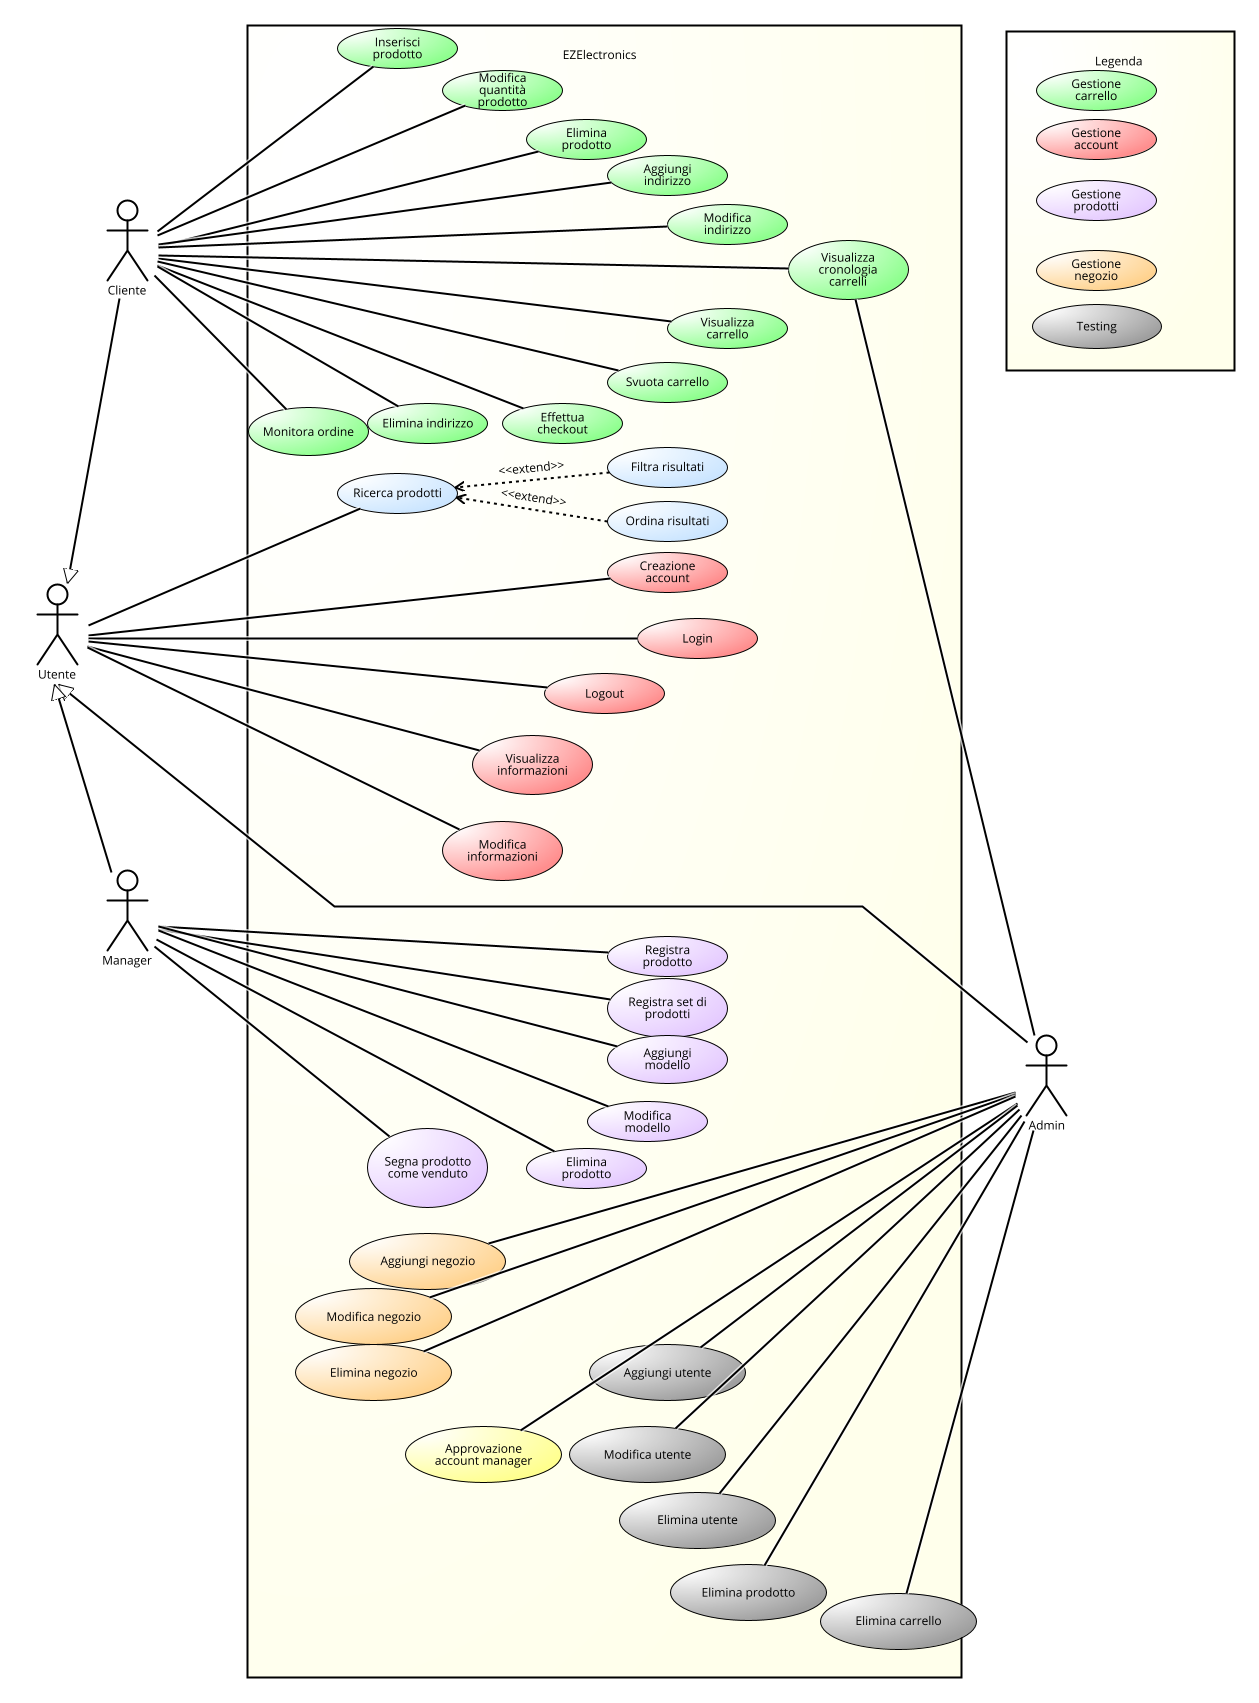
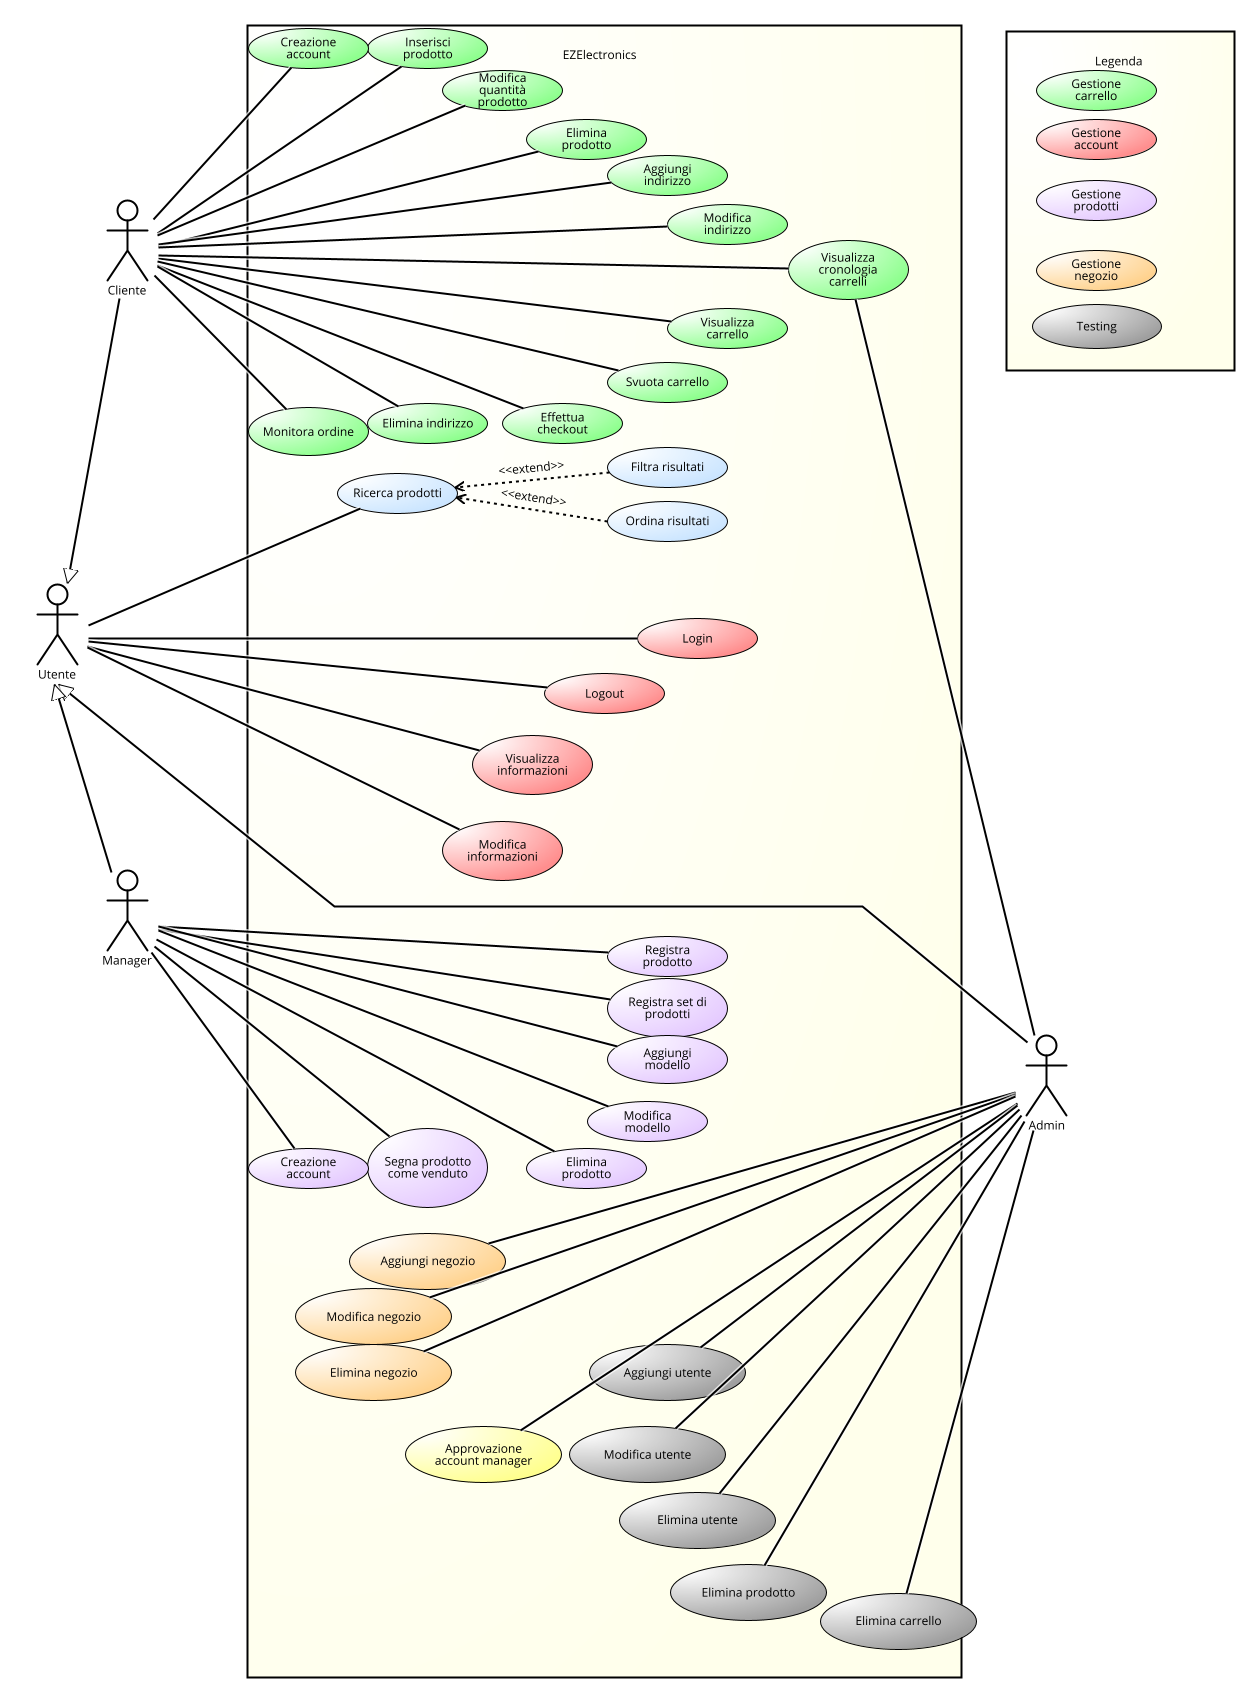
fix first 5 UC

diff --git a/RequirementsDocumentV2.md b/RequirementsDocumentV2.md
@@ -25,19 +25,23 @@ Version: V2 - description of EZElectronics
   - [Non Functional Requirements](#non-functional-requirements)
 - [Use case diagram and use cases](#use-case-diagram-and-use-cases)
     - [Use case diagram](#use-case-diagram)
-    - [Use cases](#use-cases)
-      - [UC1 - Creazione account](#uc1---creazione-account)
-        - [Scenario 1.1](#scenario-11)
-        - [Scenario 1.2](#scenario-12)
-      - [UC2 - Login](#uc2---login)
-        - [Scenario 2.1](#scenario-21)
-        - [Scenario 2.2](#scenario-22)
-      - [UC3 - Logout](#uc3---logout)
-        - [Scenario 3.1](#scenario-31)
-      - [UC4 - Visualizza informazioni profilo](#uc4---visualizza-informazioni-profilo)
-        - [Scenario 4.1](#scenario-41)
+  - [Use cases](#use-cases)
+    - [UC1 - Creazione account Cliente](#uc1---creazione-account-cliente)
+      - [Scenario 1.1](#scenario-11)
+      - [Scenario 1.2](#scenario-12)
+    - [UC2 - Creazione account Manager](#uc2---creazione-account-manager)
+      - [Scenario 2.1](#scenario-21)
+      - [Scenario 2.2](#scenario-22)
+      - [Scenario 2.3](#scenario-23)
+    - [UC3 - Login](#uc3---login)
+      - [Scenario 3.1](#scenario-31)
+      - [Scenario 3.2](#scenario-32)
+    - [UC4 - Logout](#uc4---logout)
+      - [Scenario 4.1](#scenario-41)
+    - [UC5 - Visualizza informazioni profilo](#uc5---visualizza-informazioni-profilo)
+      - [Scenario 5.1](#scenario-51)
       - [UC5 - Aggiunta di un prodotto al carrello](#uc5---aggiunta-di-un-prodotto-al-carrello)
-        - [Scenario 5.1](#scenario-51)
+        - [Scenario 5.1](#scenario-51-1)
         - [Scenario 5.2](#scenario-52)
       - [UC6 - Rimozione di un prodotto dal carrello](#uc6---rimozione-di-un-prodotto-dal-carrello)
         - [Scenario 6.1](#scenario-61)
@@ -255,11 +259,11 @@ Martina ha bisogno di acquistare un nuovo laptop per suo figlio, che inizia a fr
 
 ![Use case diagram](Immagini/useCaseDiagramv2.png)
 
-### Use cases
+## Use cases
 
-#### UC1 - Creazione account
+### UC1 - Creazione account Cliente
 
-| **Actors Involved** | **Cliente, Manager**      |
+| **Actors Involved** | **Cliente**      |
 | ------------------- | ------------------------- |
 | Precondition        | L’utente non è registrato |
 | Post condition      | L’utente è registrato     |
@@ -267,47 +271,104 @@ Martina ha bisogno di acquistare un nuovo laptop per suo figlio, che inizia a fr
 | Variants            | Nessuna                   |
 | Exceptions          | Scenario 1.2              |
 
-##### Scenario 1.1
+#### Scenario 1.1
 
 | **Scenario 1.1** | **Registrazione**                                                            |
 | ---------------- | ---------------------------------------------------------------------------- |
 | Precondition     | L’utente non è registrato                                                    |
 | Post condition   | L'utente è registrato                                                        |
 | Step#            | Description                                                                  |
-| 1                | L’utente chiede di registrarsi                                               |
-| 2                | Il sistema chiede nome, cognome, username, password e ruolo                  |
+| 1                | L’utente chiede di registrarsi come cliente                                           |
+| 2                | Il sistema chiede nome, cognome, username, email e password                   |
 | 3                | L’utente inserisce i dati richiesti                                          |
 | 4                | Il sistema acquisisce i dati inseriti                                        |
 | 5                | Il sistema controlla che l’username non sia associato a un account esistente |
 | 6                | Il sistema salva i dati e registra l’utente                                  |
 
-##### Scenario 1.2
+#### Scenario 1.2
 
 | **Scenario 1.2** | **Username già registrato**                                                    |
 | ---------------- | ------------------------------------------------------------------------------ |
 | Precondition     | L’utente non è registrato, l'username inserito è gia registrato nel sistema    |
 | Post condition   | L'utente non è registrato                                                      |
 | Step#            | Description                                                                    |
-| 1                | L’utente chiede di registrarsi                                                 |
-| 2                | Il sistema chiede nome, cognome, username, password e ruolo                    |
+| 1                | L’utente chiede di registrarsi come cliente                                                |
+| 2                | Il sistema chiede nome, cognome, username, email e password                 |
 | 3                | L’utente inserisce i dati richiesti                                            |
 | 4                | Il sistema acquisisce i dati inseriti                                          |
 | 5                | Il sistema controlla che l’username non sia associato a un account esistente   |
 | 6                | Il nome utente è già associato a un account e il sistema restituisce un errore |
 
-#### UC2 - Login
+### UC2 - Creazione account Manager
 
-| **Actors Involved** | **Cliente, Manager**                |
+| **Actors Involved** | **Manager**      |
+| ------------------- | ------------------------- |
+| Precondition        | L’utente non è registrato |
+| Post condition      | L’utente è registrato     |
+| Nominal Scenario    | Scenario 2.1            |
+| Variants            | Nessuna                   |
+| Exceptions          | Scenario 2.2, 2.3              |
+
+#### Scenario 2.1
+
+| **Scenario 2.1** | **Registrazione**                                                            |
+| ---------------- | ---------------------------------------------------------------------------- |
+| Precondition     | L’utente non è registrato                                                    |
+| Post condition   | L'utente è registrato                                                        |
+| Step#            | Description                                                                  |
+| 1                | L’utente chiede di registrarsi come manager                                          |
+| 2                | Il sistema chiede nome, cognome, username, email, password e negozio                   |
+| 3                | L’utente inserisce i dati richiesti                                          |
+| 4                | Il sistema acquisisce i dati inseriti                                        |
+| 5                | Il sistema controlla che l’username non sia associato a un account esistente |
+| 6                | Il sistema salva i dati e registra l’account manager                                |
+| 7                | Il sistema invia una richiesta di registrazione all'Admin per l'approvazione del manager |
+| 8                | L'Admin approva la richiesta di registrazione del manager |
+| 9                | Il sistema notifica il manager dell'avvenuta registrazione |
+
+#### Scenario 2.2
+
+| **Scenario 2.2** | **Username già registrato**                                                    |
+| ---------------- | ------------------------------------------------------------------------------ |
+| Precondition     | L’utente non è registrato, l'username inserito è gia registrato nel sistema    |
+| Post condition   | L'utente non è registrato                                                      |
+| Step#            | Description                                                                    |
+| 1                | L’utente chiede di registrarsi come manager                                                |
+| 2                | Il sistema chiede nome, cognome, username, email, password e negozio         |
+| 3                | L’utente inserisce i dati richiesti                                            |
+| 4                | Il sistema acquisisce i dati inseriti                                          |
+| 5                | Il sistema controlla che l’username non sia associato a un account esistente   |
+| 6                | Il nome utente è già associato a un account e il sistema restituisce un errore |
+
+#### Scenario 2.3
+
+| **Scenario 2.3** | **Richiesta di registrazione non approvata**                                   |
+| ---------------- | ------------------------------------------------------------------------------ |
+| Precondition     | L’utente ha richiesto la registrazione come manager, ma la richiesta non è stata approvata |
+| Post condition   | L'utente non è registrato                                                      |
+| Step#            | Description                                                                    |
+| 1                | L’utente chiede di registrarsi come manager                                                |
+| 2                | Il sistema chiede nome, cognome, username, email, password e negozio         |
+| 3                | L’utente inserisce i dati richiesti                                            |
+| 4                | Il sistema acquisisce i dati inseriti                                          |
+| 5                | Il sistema controlla che l’username non sia associato a un account esistente   |
+| 6                | Il sistema invia una richiesta di registrazione all'Admin per l'approvazione del manager |
+| 7                | L'Admin rifiuta la richiesta di registrazione del manager |
+| 8                | Il sistema notifica il manager dell'avvenuto rifiuto della registrazione |
+
+### UC3 - Login
+
+| **Actors Involved** | **Cliente, Manager, Admin**                |
 | ------------------- | ----------------------------------- |
 | Precondition        | L’utente è registrato e non loggato |
 | Post condition      | L’utente è loggato                  |
-| Nominal Scenario    | Scenario 2.1                        |
+| Nominal Scenario    | Scenario 3.1                        |
 | Variants            | Nessuna                             |
-| Exceptions          | Scenario 2.2, 2.3                   |
+| Exceptions          | Scenario 3.2                  |
 
-##### Scenario 2.1
+#### Scenario 3.1
 
-| **Scenario 2.1** | **Utente loggato con successo**                                                                    |
+| **Scenario 3.1** | **Utente loggato con successo**                                                                    |
 | ---------------- | -------------------------------------------------------------------------------------------------- |
 | Precondition     | L’utente è registrato e non loggato                                                                |
 | Post condition   | L’utente è loggato                                                                                 |
@@ -319,9 +380,9 @@ Martina ha bisogno di acquistare un nuovo laptop per suo figlio, che inizia a fr
 | 5                | Il sistema controlla che l’username sia associato a un account esistente e la password corrisponda |
 | 6                | Il sistema autentica l’utente                                                                      |
 
-##### Scenario 2.2
+#### Scenario 3.2
 
-| **Scenario 2.2** | **Credenziali errate**                                                                             |
+| **Scenario 3.2** | **Credenziali errate**                                                                             |
 | ---------------- | -------------------------------------------------------------------------------------------------- |
 | Precondition     | L’utente è registrato e non loggato                                                                |
 | Post condition   | L’utente non è loggato                                                                             |
@@ -333,19 +394,19 @@ Martina ha bisogno di acquistare un nuovo laptop per suo figlio, che inizia a fr
 | 5                | Il sistema controlla che l’username sia associato a un account esistente e la password corrisponda |
 | 6                | Il sistema vede che le credenziali sono errate e restituisce errore                                |
 
-#### UC3 - Logout
+### UC4 - Logout
 
-| **Actors Involved** | **Cliente, Manager**   |
+| **Actors Involved** | **Cliente, Manager, Admin**   |
 | ------------------- | ---------------------- |
 | Precondition        | L’utente è loggato     |
 | Postcondition       | L’utente non è loggato |
-| Nominal Scenario    | Scenario 3.1           |
+| Nominal Scenario    | Scenario 4.1           |
 | Variants            | Nessuna                |
 | Exceptions          | Nessuna                |
 
-##### Scenario 3.1
+#### Scenario 4.1
 
-| **Scenario 3.1** | **Utente disconnesso con successo**                                      |
+| **Scenario 4.1** | **Utente disconnesso con successo**                                      |
 | ---------------- | ------------------------------------------------------------------------ |
 | Precondition     | L’utente è loggato                                                       |
 | Post condition   | L’utente non è loggato                                                   |
@@ -355,19 +416,19 @@ Martina ha bisogno di acquistare un nuovo laptop per suo figlio, che inizia a fr
 | 3                | Il sistema esegue il logout dell'utente, invalidando la sessione attuale |
 | 4                | Il sistema mostra un messaggio di conferma di avvenuta disconnessione    |
 
-#### UC4 - Visualizza informazioni profilo
+### UC5 - Visualizza informazioni profilo
 
-| **Actors Involved** | **Cliente, Manager**                                |
+| **Actors Involved** | **Cliente, Manager, Admin**                                |
 | ------------------- | --------------------------------------------------- |
 | Precondition        | L’utente è loggato                                  |
 | Postcondition       | L’utente visualizza le informazioni sul suo profilo |
-| Nominal Scenario    | Scenario 4.1                                        |
+| Nominal Scenario    | Scenario 5.1                                        |
 | Variants            | Nessuna                                             |
 | Exceptions          | Nessuna                                             |
 
-##### Scenario 4.1
+#### Scenario 5.1
 
-| **Scenario 4.1** | **Utente visualizza informazioni profilo**                       |
+| **Scenario 5.1** | **Utente visualizza informazioni profilo**                       |
 | ---------------- | ---------------------------------------------------------------- |
 | Precondition     | L’utente è loggato                                               |
 | Post condition   | L’utente visualizza le informazioni sul suo profilo              |
